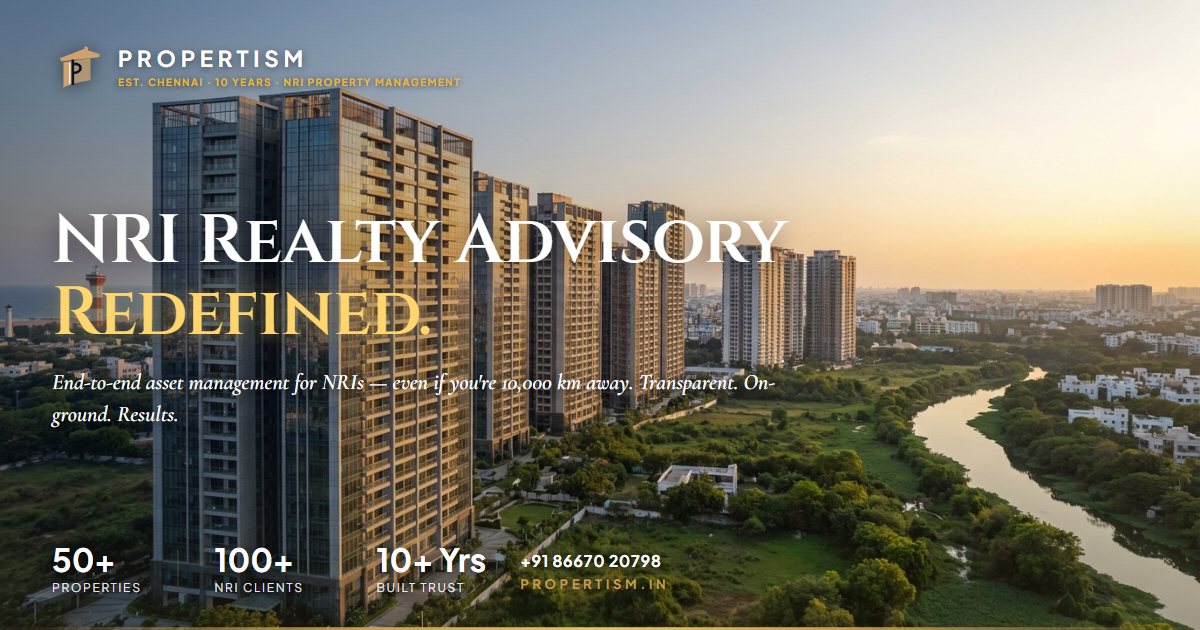
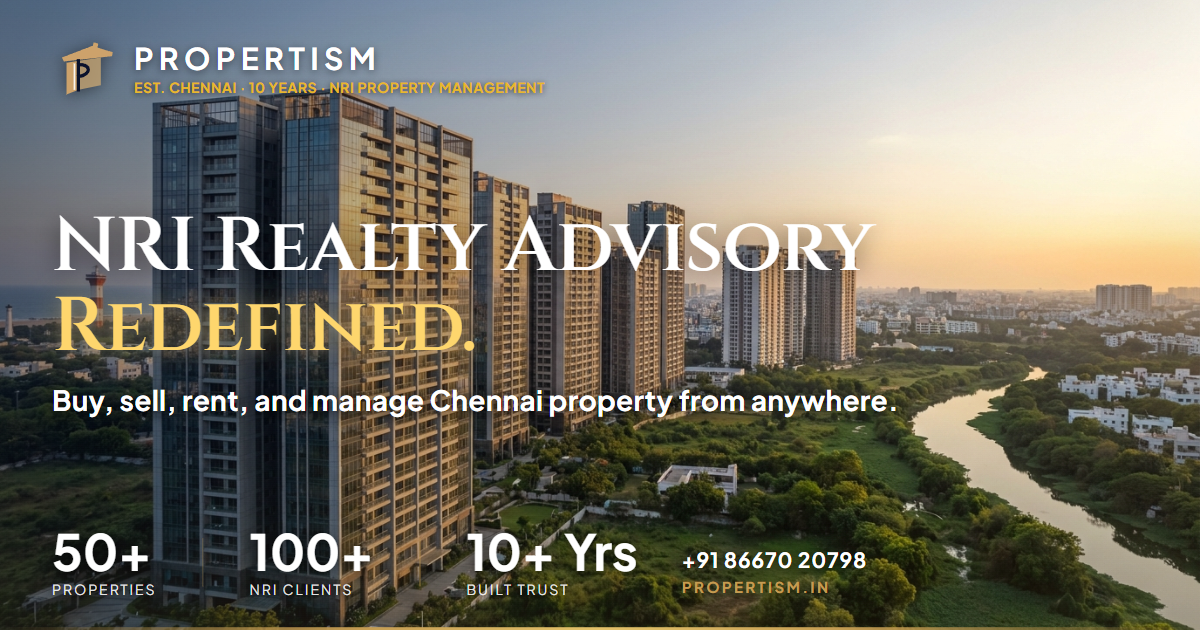
Improve OG metadata and LinkedIn card readability

diff --git a/og-propertism.html b/og-propertism.html
@@ -16,6 +16,8 @@
             align-items: center;
             justify-content: center;
             min-height: 100vh;
+            user-select: none;
+            -webkit-user-select: none;
         }
 
         .card {
@@ -55,8 +57,8 @@
             inset: 0;
             background: linear-gradient(
                 to right,
-                rgba(8, 12, 30, 0.32) 0%,
-                rgba(8, 12, 30, 0.10) 48%,
+                rgba(8, 12, 30, 0.40) 0%,
+                rgba(8, 12, 30, 0.14) 48%,
                 transparent 75%
             );
         }
@@ -80,7 +82,7 @@
             display: flex;
             flex-direction: column;
             justify-content: space-between;
-            padding: 40px 52px 36px;
+            padding: 34px 52px 32px;
         }
 
         /* Top bar */
@@ -93,26 +95,26 @@
         .logo-block {
             display: flex;
             align-items: center;
-            gap: 14px;
+            gap: 16px;
         }
 
-        .logo-svg { height: 52px; width: auto; filter: drop-shadow(0 2px 8px rgba(0,0,0,0.5)); }
+        .logo-svg { height: 66px; width: auto; filter: drop-shadow(0 2px 8px rgba(0,0,0,0.5)); }
 
         .logo-text { display: flex; flex-direction: column; gap: 3px; }
 
         .logo-name {
             font-family: 'Plus Jakarta Sans', sans-serif;
-            font-size: 22px;
+            font-size: 30px;
             font-weight: 700;
-            letter-spacing: 0.22em;
+            letter-spacing: 0.18em;
             color: #FFFFFF;
             text-shadow: 0 2px 8px rgba(0,0,0,0.5);
         }
 
         .logo-sub {
             font-family: 'Plus Jakarta Sans', sans-serif;
-            font-size: 10px;
-            letter-spacing: 0.14em;
+            font-size: 14px;
+            letter-spacing: 0.04em;
             color: #e8b82a;
             font-weight: 700;
             text-transform: uppercase;
@@ -123,12 +125,12 @@
         .headline-block {
             display: flex;
             flex-direction: column;
-            gap: 18px;
+            gap: 14px;
         }
 
         .headline {
             font-family: 'Cinzel', serif;
-            font-size: 68px;
+            font-size: 76px;
             font-weight: 600;
             line-height: 1.05;
             color: #FFFFFF;
@@ -147,13 +149,14 @@
         }
 
         .tagline {
-            font-family: 'Cormorant Garamond', serif;
-            font-size: 22px;
-            font-style: italic;
-            font-weight: 600;
+            font-family: 'Plus Jakarta Sans', sans-serif;
+            font-size: 28px;
+            font-style: normal;
+            font-weight: 700;
             color: #FFFFFF;
-            line-height: 1.42;
-            max-width: 760px;
+            line-height: 1.34;
+            letter-spacing: 0.01em;
+            max-width: 880px;
             text-shadow:
                 0 2px 12px rgba(0,0,0,0.80),
                 0 0 30px rgba(0,0,0,0.40);
@@ -164,20 +167,20 @@
             display: flex;
             align-items: flex-end;
             justify-content: flex-start;
-            gap: 34px;
+            gap: 44px;
         }
 
         .stats-strip {
             display: flex;
             align-items: center;
-            gap: 36px;
+            gap: 46px;
         }
 
         .stat-item { display: flex; flex-direction: column; gap: 4px; }
 
         .stat-number {
             font-family: 'Plus Jakarta Sans', sans-serif;
-            font-size: 32px;
+            font-size: 50px;
             font-weight: 700;
             color: #FFFFFF;
             line-height: 1;
@@ -186,7 +189,7 @@
 
         .stat-label {
             font-family: 'Plus Jakarta Sans', sans-serif;
-            font-size: 12px;
+            font-size: 14px;
             letter-spacing: 0.14em;
             color: rgba(255,255,255,0.88);
             text-transform: uppercase;
@@ -195,7 +198,7 @@
 
         .stat-divider {
             width: 1px;
-            height: 36px;
+            height: 48px;
             background: rgba(196,156,82,0.4);
         }
 
@@ -209,7 +212,7 @@
 
         .phone {
             font-family: 'Plus Jakarta Sans', sans-serif;
-            font-size: 16px;
+            font-size: 21px;
             font-weight: 700;
             color: #FFFFFF;
             letter-spacing: 0.04em;
@@ -218,9 +221,9 @@
 
         .domain {
             font-family: 'Plus Jakarta Sans', sans-serif;
-            font-size: 13px;
+            font-size: 15px;
             font-weight: 700;
-            letter-spacing: 0.28em;
+            letter-spacing: 0.16em;
             color: #C49C52;
             text-transform: uppercase;
         }
@@ -268,7 +271,7 @@
                     NRI Realty Advisory
                     <span class="headline-gold">Redefined.</span>
                 </h1>
-                <p class="tagline">End-to-end asset management for NRIs &mdash; even if you're 10,000 km away. Transparent. On-ground. Results.</p>
+                <p class="tagline">Buy, sell, rent, and manage Chennai property from anywhere.</p>
             </div>
 
             <!-- BOTTOM -->

diff --git a/uilayers/templates/seo/meta_tags.html b/uilayers/templates/seo/meta_tags.html
@@ -8,9 +8,9 @@
 
 <!-- Open Graph / Facebook -->
 <meta property="og:type" content="{{ page_type }}">
-<meta property="og:url" content="{{ url }}">
-<meta property="og:title" content="Propertism Realty Advisors">
-<meta property="og:description" content="Propertism Realty Advisors &mdash; Expert NRI property advisory in Chennai. Buy, sell, and manage your Chennai real estate with trusted on-ground advisors.">
+<meta property="og:url" content="{{ canonical_url }}">
+<meta property="og:title" content="{{ social_title }}">
+<meta property="og:description" content="{{ social_description }}">
 <meta property="og:image" content="{{ image }}">
 <meta property="og:image:width" content="1200">
 <meta property="og:image:height" content="630">
@@ -21,9 +21,9 @@
 
 <!-- Twitter -->
 <meta name="twitter:card" content="summary_large_image">
-<meta name="twitter:url" content="{{ url }}">
-<meta name="twitter:title" content="Propertism Realty Advisors">
-<meta name="twitter:description" content="Propertism Realty Advisors &mdash; Expert NRI property advisory in Chennai. Buy, sell, and manage your Chennai real estate with trusted on-ground advisors.">
+<meta name="twitter:url" content="{{ canonical_url }}">
+<meta name="twitter:title" content="{{ social_title }}">
+<meta name="twitter:description" content="{{ social_description }}">
 <meta name="twitter:image" content="{{ image }}">
 <meta name="twitter:image:alt" content="Propertism Realty Advisors brand card for NRI property advisory in Chennai.">
 {% if twitter_handle %}<meta name="twitter:site" content="{{ twitter_handle }}">{% endif %}

diff --git a/content/templatetags/seo_tags.py b/content/templatetags/seo_tags.py
@@ -22,6 +22,18 @@ def _make_absolute_url(url, site_url):
     return f"{site_url}{url}"
 
 
+def _get_public_site_url(request=None):
+    canonical_scheme = getattr(settings, "CANONICAL_SCHEME", "https") or "https"
+    canonical_host = getattr(settings, "CANONICAL_HOST", "") or ""
+
+    if not canonical_host and request:
+        canonical_host = request.get_host()
+    if not canonical_host:
+        canonical_host = "www.propertism.in"
+
+    return f"{canonical_scheme}://{canonical_host}"
+
+
 def _get_company_hero_url(company, site_url):
     hero_url = company.get_primary_hero_image_url() if company else None
     if hero_url:
@@ -48,18 +60,22 @@ def seo_meta(
     """
     request = context.get('request')
 
+    site_url = _get_public_site_url(request)
     if request:
-        current_url = request.build_absolute_uri()
-        site_url = f"{request.scheme}://{request.get_host()}"
+        current_url = f"{site_url}{request.path}"
     else:
-        current_url = settings.ALLOWED_HOSTS[0] if settings.ALLOWED_HOSTS else 'localhost'
-        site_url = current_url
+        current_url = site_url
 
     company = _get_company()
-    default_title = "Propertism Realty Advisors | NRI Property Management Chennai"
+    default_title = "Propertism | Chennai Property Management for NRIs"
     default_description = "Expert NRI property management services in Chennai, India. Buy, sell, and manage your real estate investments with confidence. Professional rental management and property maintenance."
     default_image = _get_company_hero_url(company, site_url)
 
+    social_title = "Propertism | NRI Property Management in Chennai"
+    social_description = (
+        "Trusted on-ground advisors for NRIs to buy, sell, rent, and manage Chennai "
+        "property with end-to-end support and transparent reporting."
+    )
     og_image = _make_absolute_url('/static/images/og-propertism-v2.png', site_url)
     final_title = title or default_title
     final_description = description or default_description
@@ -73,6 +89,8 @@ def seo_meta(
         'image': final_image,
         'url': current_url,
         'canonical_url': final_canonical,
+        'social_title': social_title,
+        'social_description': social_description,
         'site_url': site_url,
         'page_type': page_type,
         'site_name': company.company_name if company else 'Propertism Realty Advisors',
